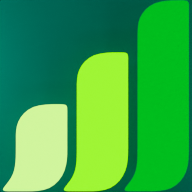
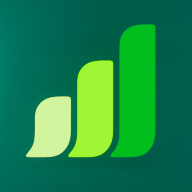
Changes

diff --git a/vite.config.ts b/vite.config.ts
@@ -30,19 +30,19 @@ export default defineConfig(({ mode }) => ({
         categories: ['business', 'finance', 'productivity'],
         icons: [
           {
-            src: 'pwa-192x192.png?v=6',
+            src: 'pwa-192x192.png?v=7',
             sizes: '192x192',
             type: 'image/png',
             purpose: 'any'
           },
           {
-            src: 'pwa-512x512.png?v=6',
+            src: 'pwa-512x512.png?v=7',
             sizes: '512x512',
             type: 'image/png',
             purpose: 'any'
           },
           {
-            src: 'pwa-512x512.png?v=6',
+            src: 'pwa-512x512.png?v=7',
             sizes: '512x512',
             type: 'image/png',
             purpose: 'maskable'
